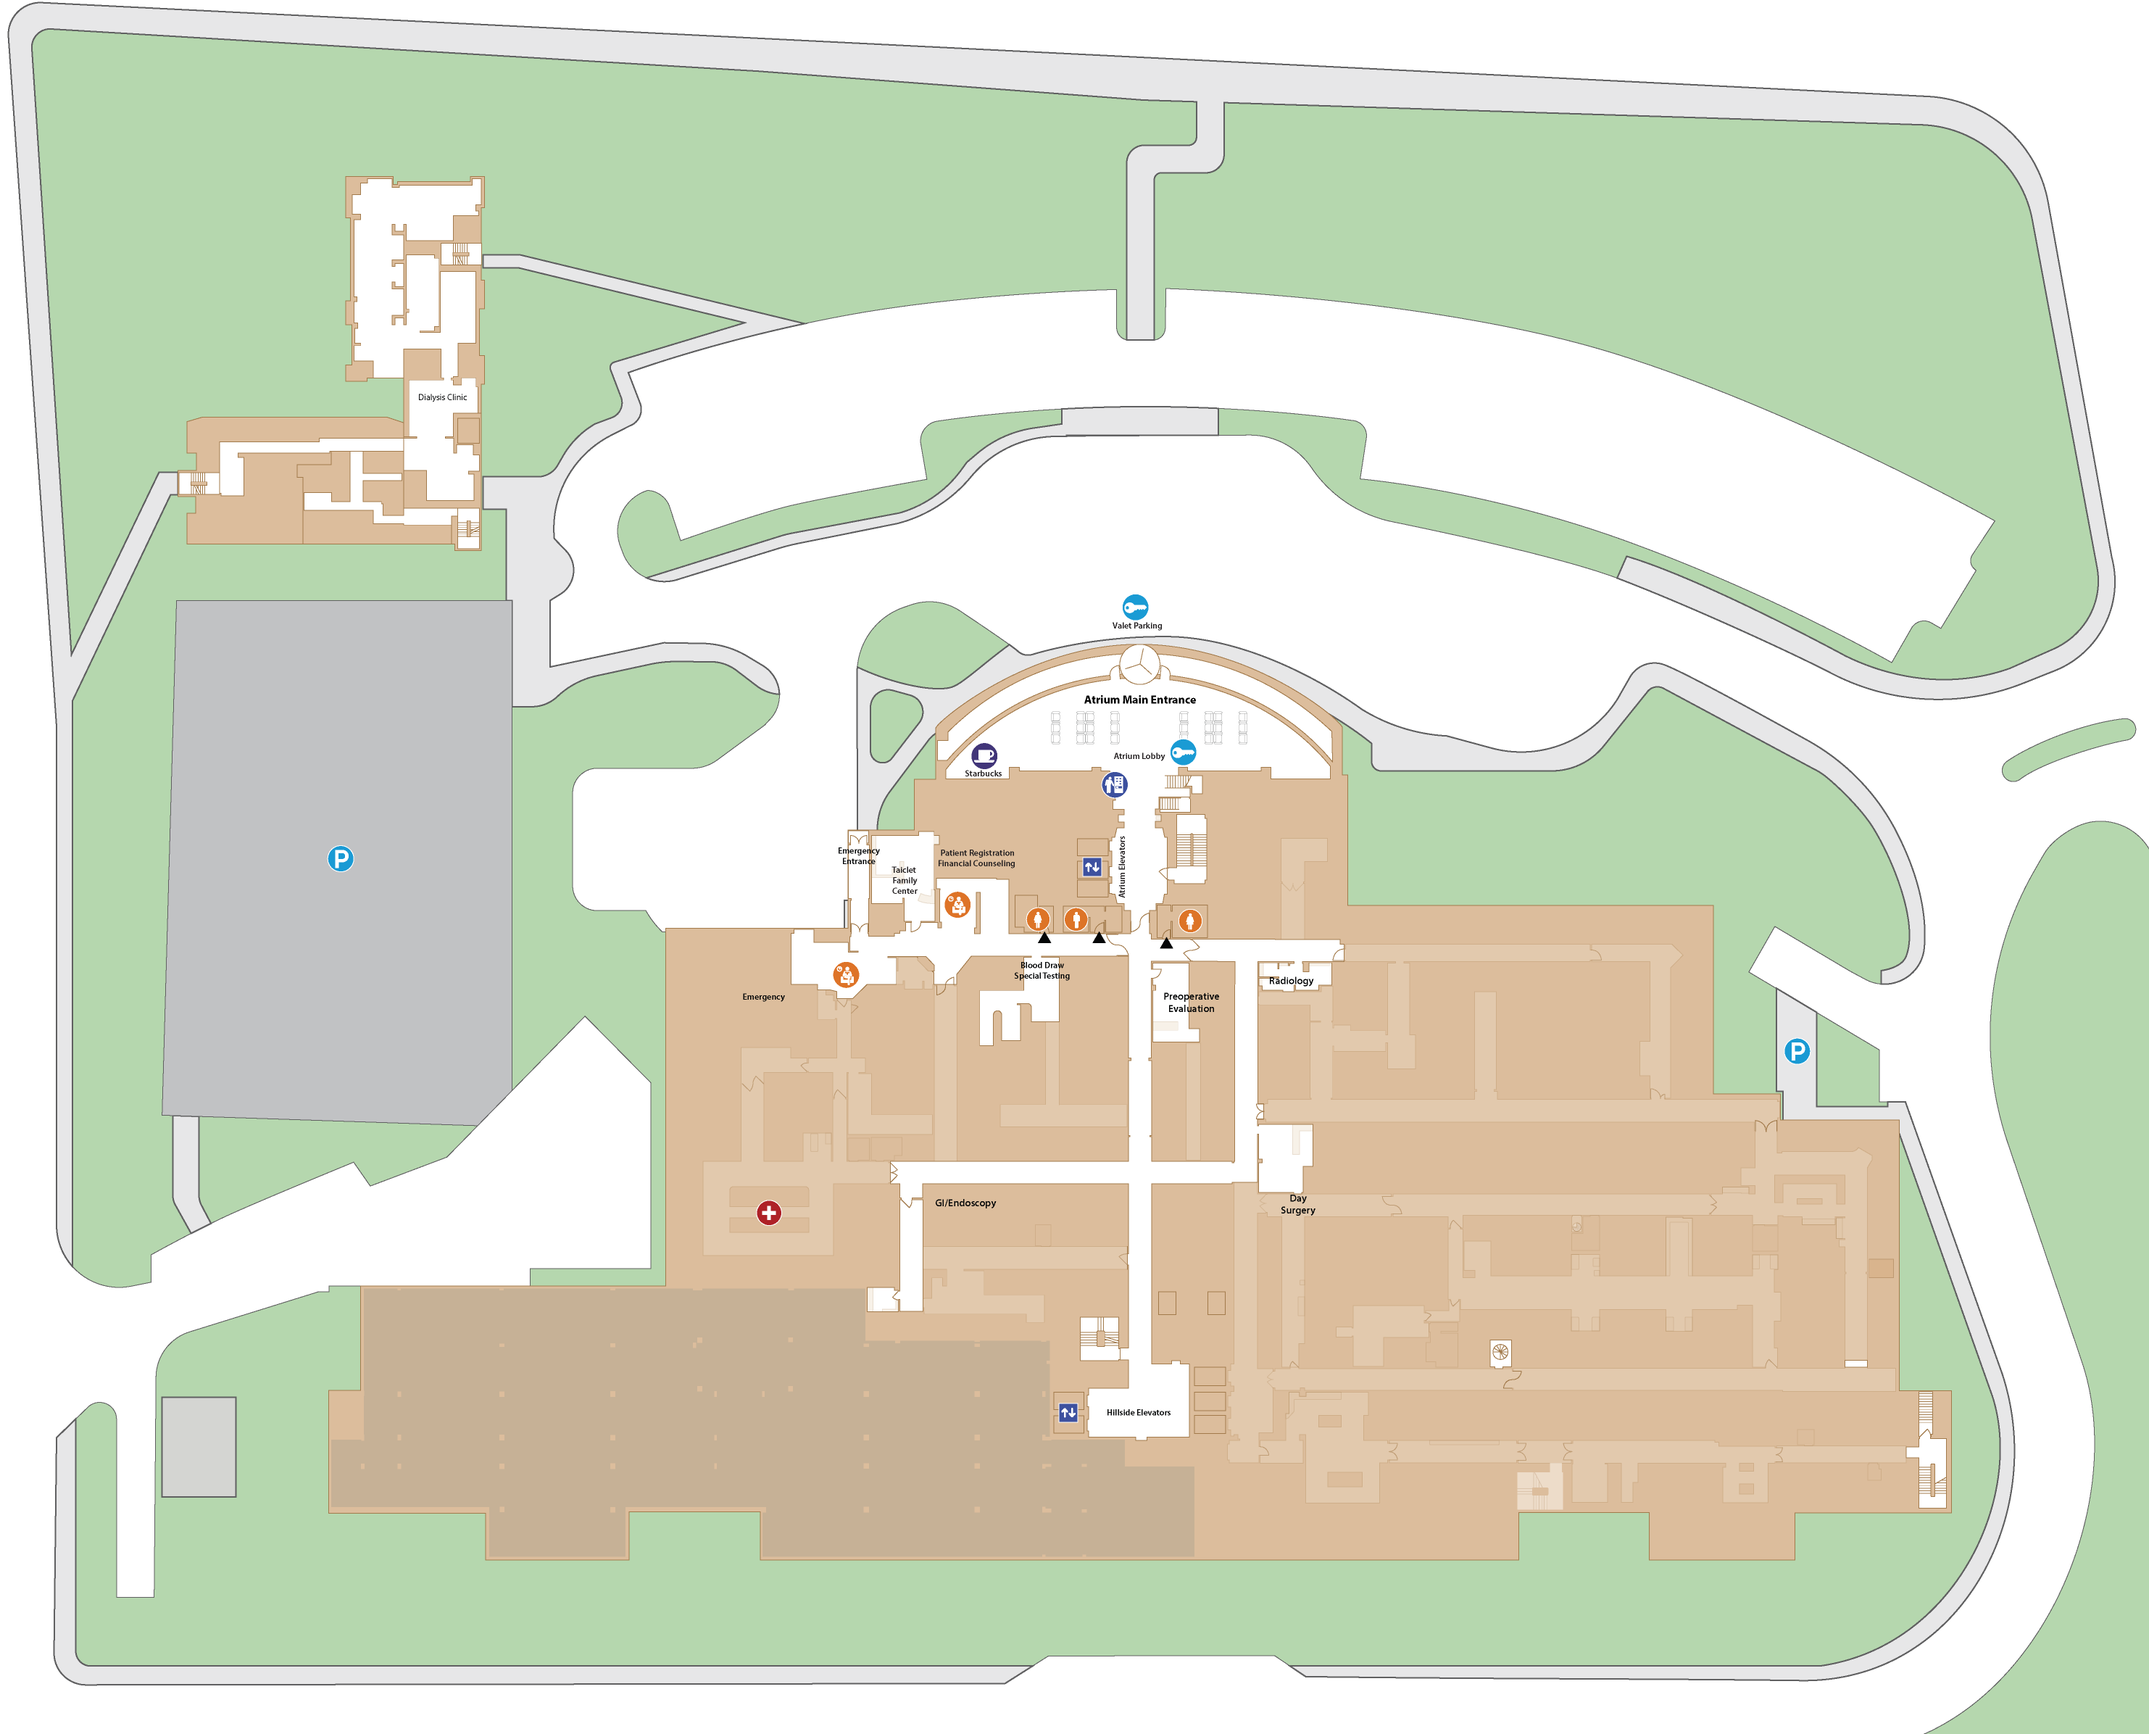
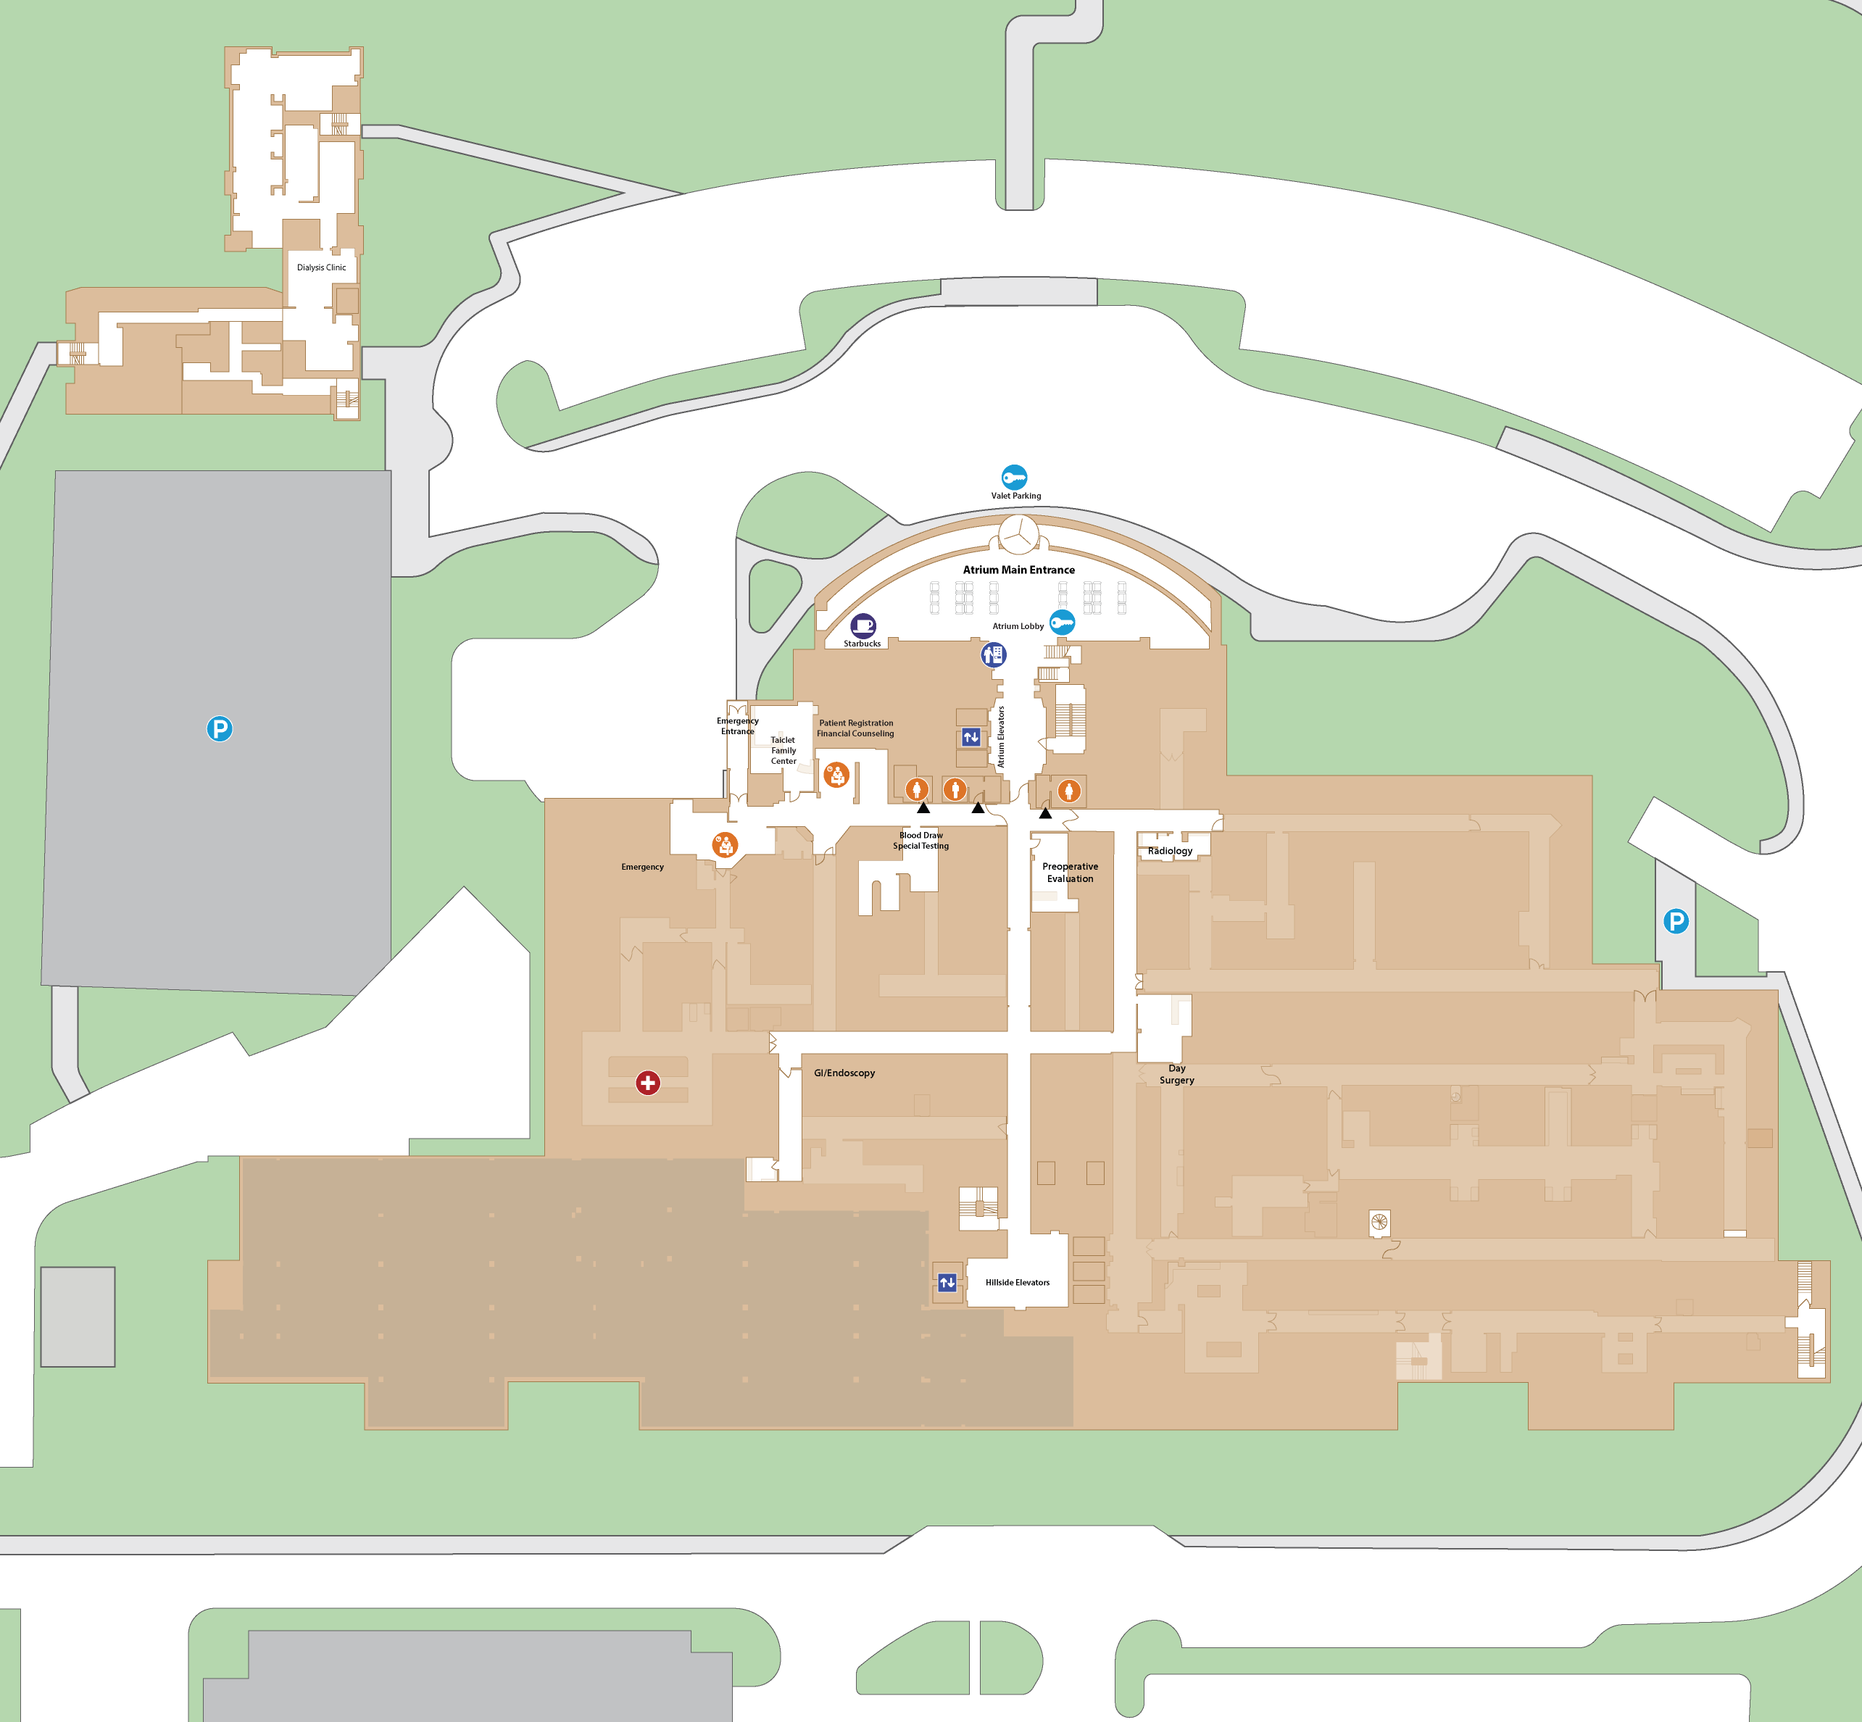
stuff? idk

diff --git a/src/groupg/controller/WelcomeScreenController.java b/src/groupg/controller/WelcomeScreenController.java
@@ -2,7 +2,6 @@
 package groupg.controller;
 
 import groupg.algorithm.Astar;
-import groupg.database.Category;
 import groupg.database.EmptyLocation;
 import groupg.database.HospitalData;
 import groupg.database.Location;
@@ -11,7 +10,6 @@ import javafx.collections.FXCollections;
 import javafx.collections.ObservableList;
 import javafx.event.ActionEvent;
 import javafx.event.Event;
-import javafx.event.EventHandler;
 import javafx.fxml.FXML;
 import javafx.fxml.Initializable;
 import javafx.scene.Group;
@@ -22,7 +20,6 @@ import javafx.scene.input.MouseEvent;
 import javafx.scene.layout.GridPane;
 import javafx.scene.layout.HBox;
 import javafx.scene.layout.Pane;
-import javafx.scene.layout.TilePane;
 import javafx.scene.text.Text;
 
 import java.io.IOException;
@@ -111,7 +108,7 @@ public class WelcomeScreenController implements Initializable {
             }
         });
 
-        imageView = ImageViewFactory.getImageView(ResourceManager.getInstance().loadImage("/image/faulkner_1.png"), imageViewPane);
+        imageView = ImageViewFactory.getImageView(ResourceManager.getInstance().loadImage("/image/faulkner_1_cropped.png"), imageViewPane);
         Group zoomGroup = new Group(imageView, lineOverlay);
         ScrollPane pane = new ScrollPane(new Pane(zoomGroup));
         pane.setHbarPolicy(ScrollPane.ScrollBarPolicy.NEVER);
@@ -123,9 +120,6 @@ public class WelcomeScreenController implements Initializable {
                 event.consume();
         });
         canvasWrapper.getChildren().addAll(pane);
-
-//        canvasWrapper.add(canvas, 0, 0);
-//        canvasWrapper.add(overlay, 0, 0);
 
         //Add locations from DB
         locations.addAll(HospitalData.getAllLocations());

diff --git a/src/groupg/controller/AdminMainController.java b/src/groupg/controller/AdminMainController.java
@@ -138,9 +138,9 @@ public class AdminMainController implements Initializable {
             pd.setProperty("X value", "" + NodeListenerFactory.currentSelection.getLocation().getX());
             pd.setProperty("Y value", "" + NodeListenerFactory.currentSelection.getLocation().getY());
             pd.setProperty("Name", NodeListenerFactory.currentSelection.getLocation().getName());
-            pd.setProperty("ID", "" + NodeListenerFactory.currentSelection.getLocation().getID());
             pd.setProperty("Category", NodeListenerFactory.currentSelection.getLocation().getCategory().getCategory());
             pd.setProperty("# of Neighbors", NodeListenerFactory.currentSelection.getLocation().getNeighbors().size() + "");
+            pd.setProperty("ID", "" + NodeListenerFactory.currentSelection.getLocation().getID());
             displayedPanels.set(0, pd);
             AdminMainController.infoOverlay.getChildren().clear();
             AdminMainController.infoOverlay.getChildren().addAll(displayedPanels);
